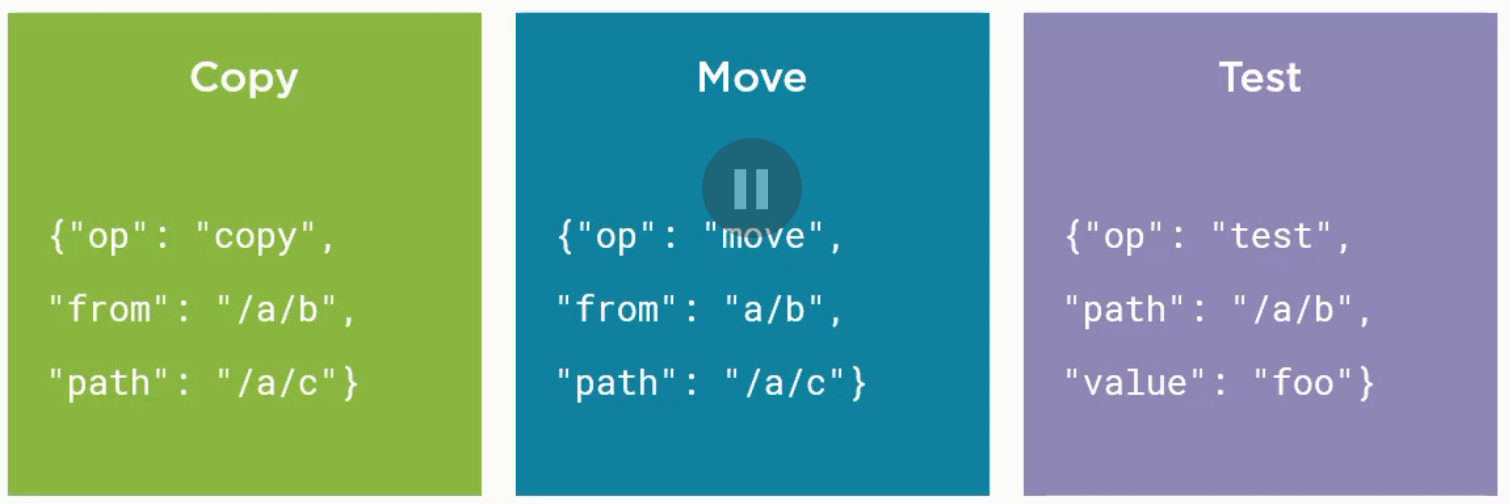
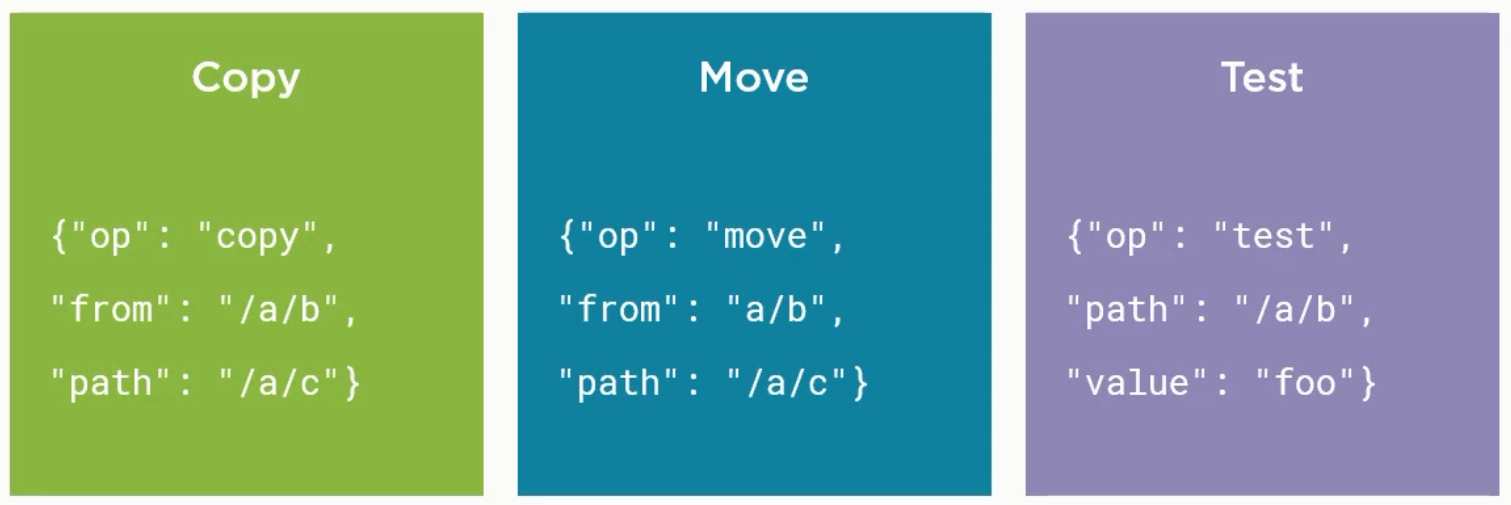
JSON Patch Operations

diff --git a/REST.md b/REST.md
@@ -437,3 +437,7 @@ Full updates with put aren't always advised, if only for the overhead it creates
 It starts with straight brackets signifying an array, that array, that's a list of operations that have to be applied to the resource. The first one is a replace operation signified by op. Path signifies the path to the property. These are the property names of the resource, the Dto, and not on whatever lies beneath that layer. Value signifies a new value, so the title property gets the value new title.
 
 There's six different operations possible. The add operation will add a property at a path location with a specific value, passed through via value. If it's used on a path that exists, that property will be replaced. If it's used on an nonexisting path, the property should be added to the resource, but something like that is only possible when working with dynamic resources often in CRM-like systems. It's not applicable in our case, as we're currently working with statically-typed classes. The remove operation will remove a property, or in non-dynamic cases, set it to its default value. Next to the operation value, it only has one property that has to be set, path. Replace replaces the value at a specified path with the provider value. It's functionally the same as a remove operation, followed by an add operation. Copy will take the value from the from property, and copy it over to the path property. It starts an add operation at the path location, with the value specified in the from member. Move then will copy over the value at the from property to the path property, and remove the value at the from property. So this operation is functionally identical to a remove operation on the from location, followed by an add operation at the path location with the removed value. And lastly test tests that a value at the target location is equal to a specified value. These cases aren't limited to simple properties on a resource. We can manipulate array properties, we can access nested properties, and we can even add a list of items to an array. So path doesn't have to be a simple property, and value doesn't have to be one string value. It might as well be an array, so it's a really powerful standard.
+
+![JSON Patch Operation](https://github.com/andreborgesdev/Thesis-Notes/blob/master/Images/JSON_Patch_Operations.png?raw=true)
+
+![JSON Patch Operation 2](https://github.com/andreborgesdev/Thesis-Notes/blob/master/Images/JSON_Patch_Operations_2.png?raw=true)
